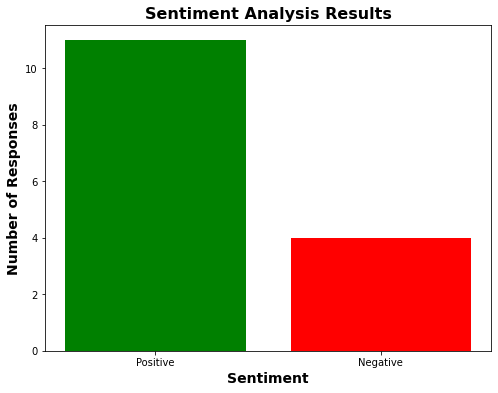
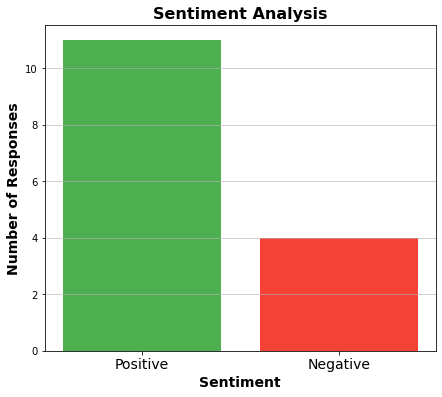
Add files via upload

diff --git a/website_thematicanalysis.py b/website_thematicanalysis.py
@@ -12,9 +12,10 @@ import nltk as nltk # for NLP tasks
 import pandas as pd
 import matplotlib.pyplot as plt
 import re
+import numpy as np
 
 # Import questionnaire results
-df = pd.read_excel('C:\\Users\\bcm9\\Documents\\Py_code\\ThematicAnalysis\\website_questionnaire.xlsx')
+df = pd.read_excel('C:\\Users\\bc22\\OneDrive\\Documents\\code\\website_thematic\\website_questionnaire.xlsx')
 
 ###############################################################################################################
 # Preprocess the feedback with WordNetLemmatizer
@@ -78,19 +79,26 @@ for code, keywords in codes.items():
     
 ###############################################################################################################
 # Plotting results
+fs=14
+xtfs=12
 # Bar plot of code frequency
+plt.figure(figsize=(8, 6))
 code_counts = df.iloc[:, 3:].sum()
-plt.bar(code_counts.index, code_counts.values)
-plt.xlabel("Code", fontweight='bold')
-plt.ylabel("Frequency", fontweight='bold')
-plt.xticks(rotation=45)
+plt.bar(code_counts.index, code_counts.values, color='skyblue', edgecolor='black')
+plt.xlabel("Themes", fontweight='bold', fontsize=fs)
+plt.ylabel("Frequency", fontweight='bold', fontsize=fs)
+plt.xticks(rotation=45, fontsize=xtfs)
+plt.yticks(fontsize=xtfs)
 plt.grid(axis='y', alpha=0.75)
+plt.tight_layout()
 plt.show()
 
 # Plot histogram of ratings
-plt.hist(df['Rating'], bins=[1, 2, 3, 4, 5, 6], color='steelblue')
-plt.xlabel('Rating', fontweight='bold')
-plt.ylabel('Frequency', fontweight='bold')
+plt.figure(figsize=(8, 6))
+plt.hist(df['Rating'], bins=np.arange(0.5, 6.5, 1), color='skyblue', edgecolor='black')
+plt.xlabel('Rating', fontweight='bold', fontsize=fs)
+plt.ylabel('Frequency', fontweight='bold', fontsize=fs)
+plt.title("Distribution of Ratings", fontweight='bold', fontsize=fs+2)
 plt.grid(axis='y', alpha=0.75)
 plt.show()
 
@@ -130,10 +138,11 @@ print(f"Positive responses: {num_pos}")
 print(f"Negative responses: {num_neg}")
 
 # Plot bar chart
-fig, ax = plt.subplots(figsize=(8, 6))
-ax.bar(["Positive", "Negative"], [num_pos, num_neg], color=["green", "red"])
-ax.set_xlabel("Sentiment", fontsize=14, fontweight="bold")
-ax.set_ylabel("Number of Responses", fontsize=14, fontweight="bold")
-ax.set_title("Sentiment Analysis Results", fontsize=16, fontweight="bold")
+fig, ax = plt.subplots(figsize=(7, 6))
+ax.bar(["Positive", "Negative"], [num_pos, num_neg], color=["#4CAF50", "#F44336"])
+ax.set_xticklabels(["Positive", "Negative"], fontsize=fs)
+ax.set_xlabel("Sentiment", fontsize=fs, fontweight="bold")
+ax.set_ylabel("Number of Responses", fontsize=fs, fontweight="bold")
+ax.set_title("Sentiment Analysis", fontsize=fs+2, fontweight="bold")
 plt.grid(axis='y', alpha=0.75)
 plt.show()
